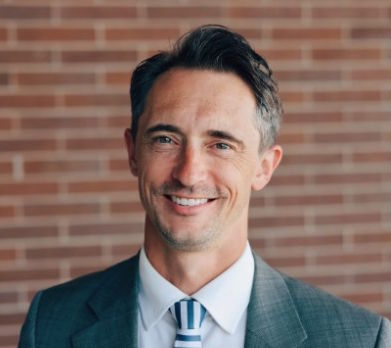
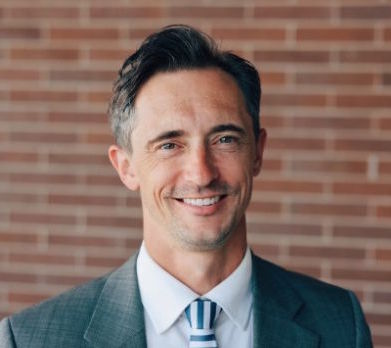
updated bios images

diff --git a/about.html b/about.html
@@ -64,7 +64,7 @@
                     </p>
                 </div>
                 <div class="team-card">
-                    <img src="Images/Logo.jpeg" alt="Team Member">
+                    <img src="Images/bios/Diana.webp" alt="Team Member">
                     <h3>Diana Reeves</h3>
                     <p>Vice President of Sales and Marketing</p>
                     <p>Hi, I’m Diana.
